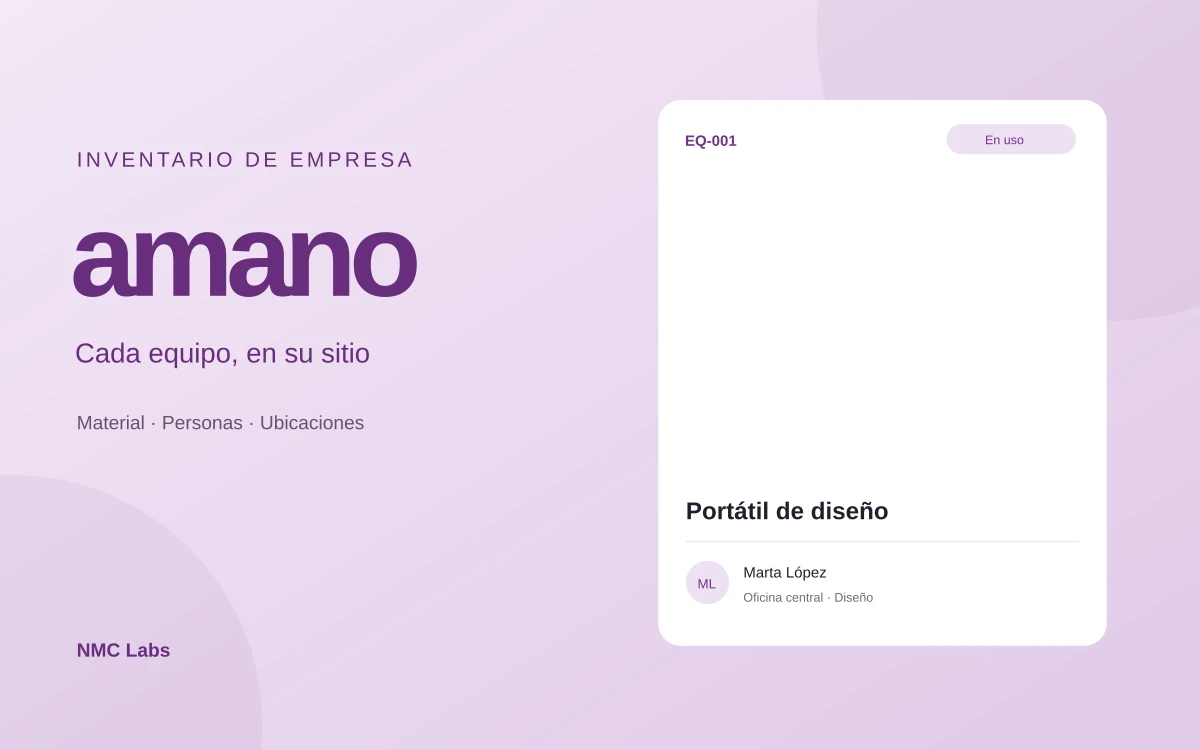
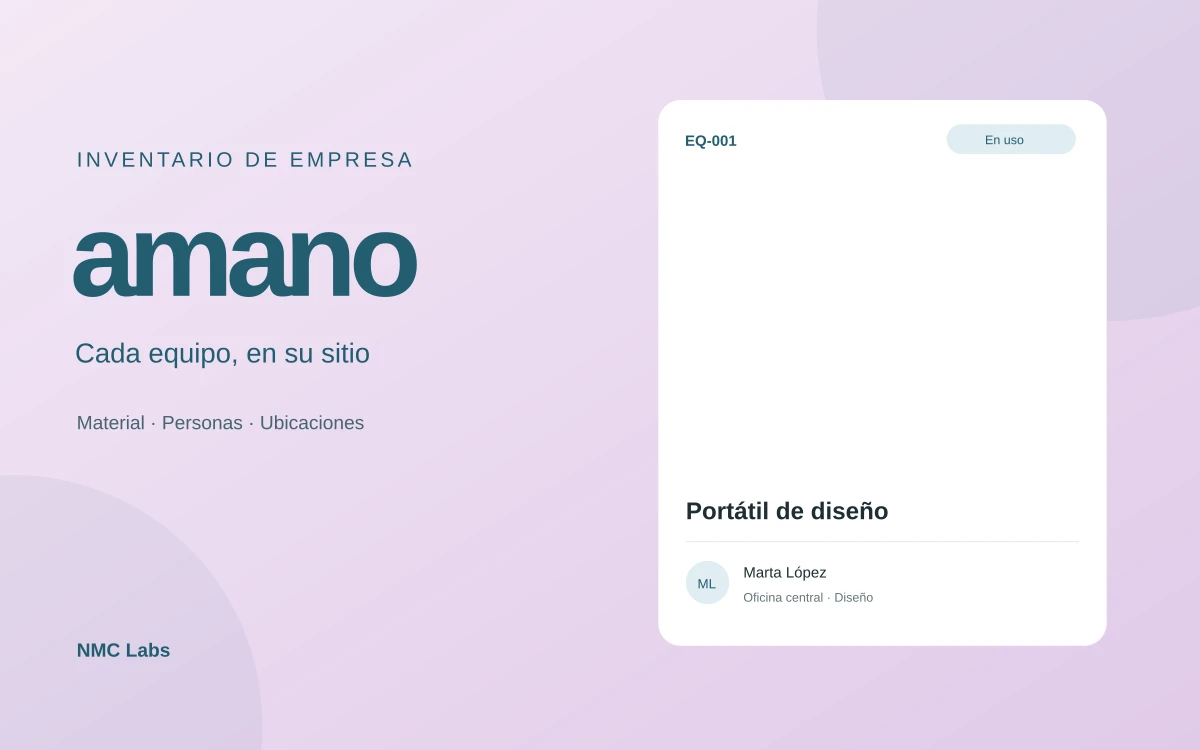
Align amano portfolio cover with its petrol blue identity

diff --git a/estilos.css b/estilos.css
@@ -118,4 +118,4 @@ details.project-origin{display:block;grid-column:1/-1;padding:0!important}detail
 
 .puntual-art.brand-art{padding:0;gap:0;justify-content:center;background:#e4e9d9}.puntual-art.brand-art>span{display:none}.puntual-art.brand-art img{width:100%;height:auto;object-fit:contain;border:0;border-radius:0;box-shadow:none}.current-tool-image img{object-fit:cover}
 
-.amano-featured{margin-top:28px}.amano-art{display:flex;align-items:center;justify-content:center;min-width:0;background:#eee1f3;overflow:hidden}.amano-art img{width:100%;height:auto;display:block;object-fit:contain}.amano-art:focus-visible{outline-offset:-5px}
+.amano-featured{margin-top:28px}.amano-art{display:flex;align-items:center;justify-content:center;min-width:0;background:#e0edf1;overflow:hidden}.amano-art img{width:100%;height:auto;display:block;object-fit:contain}.amano-art:focus-visible{outline-offset:-5px}
